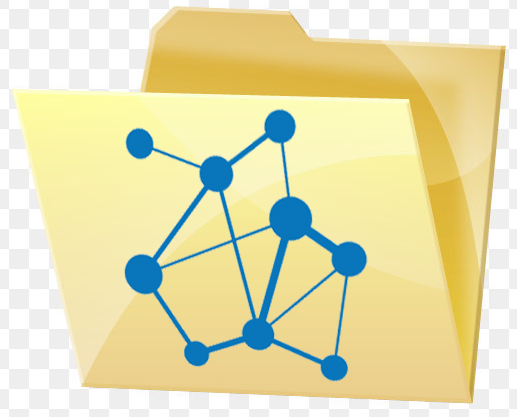
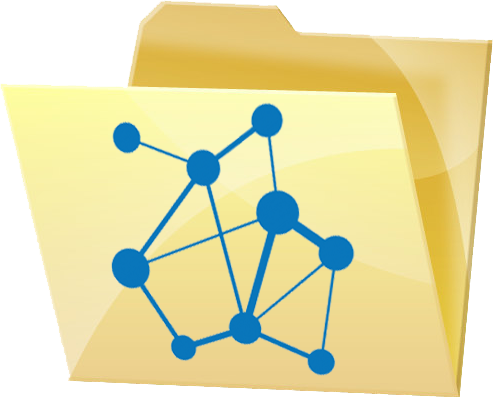
Minor changes for NDEX-282 New Home Page for NDEx.
Reduced font size of top menu to 14px; replaced default image for
featured network set(s).

diff --git a/app/styles/ndex-angular-site.css b/app/styles/ndex-angular-site.css
@@ -372,7 +372,7 @@ textarea
 
 .navbar-ndex-top
 {
-    font-size: 16px;
+    font-size: 14px;
     letter-spacing:0px;
 }
 .navbar-ndex-bottom
